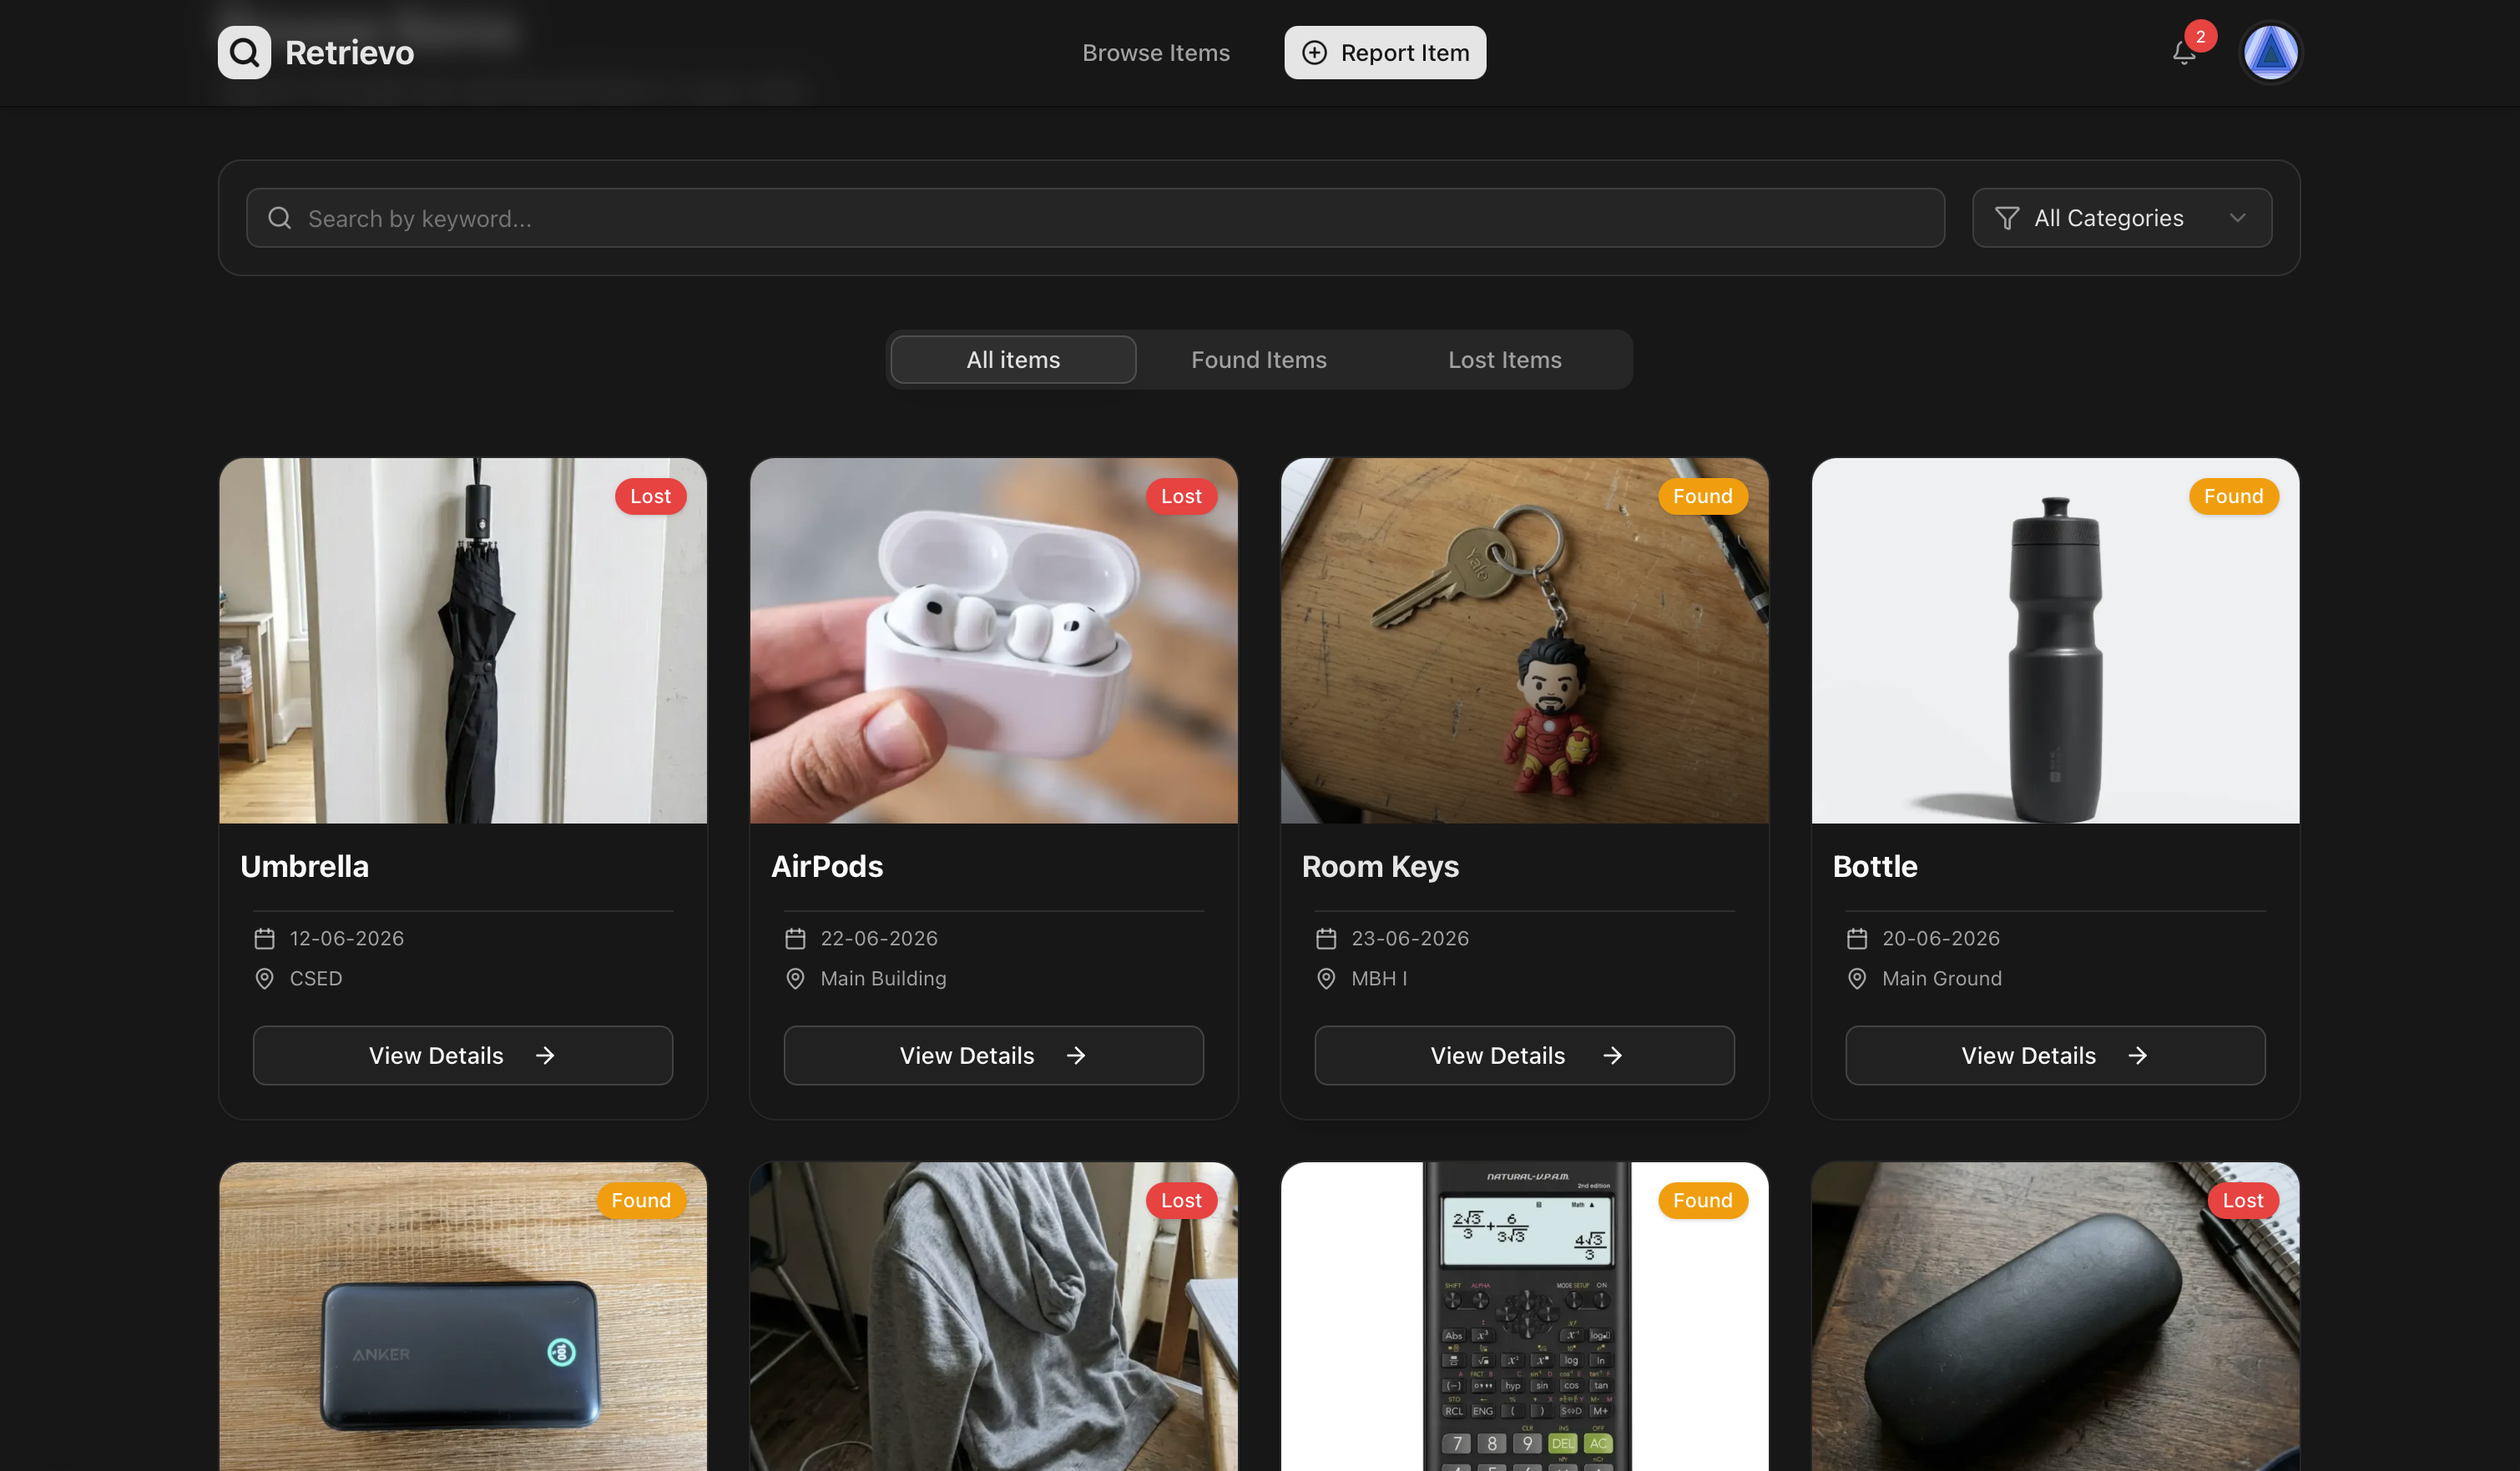
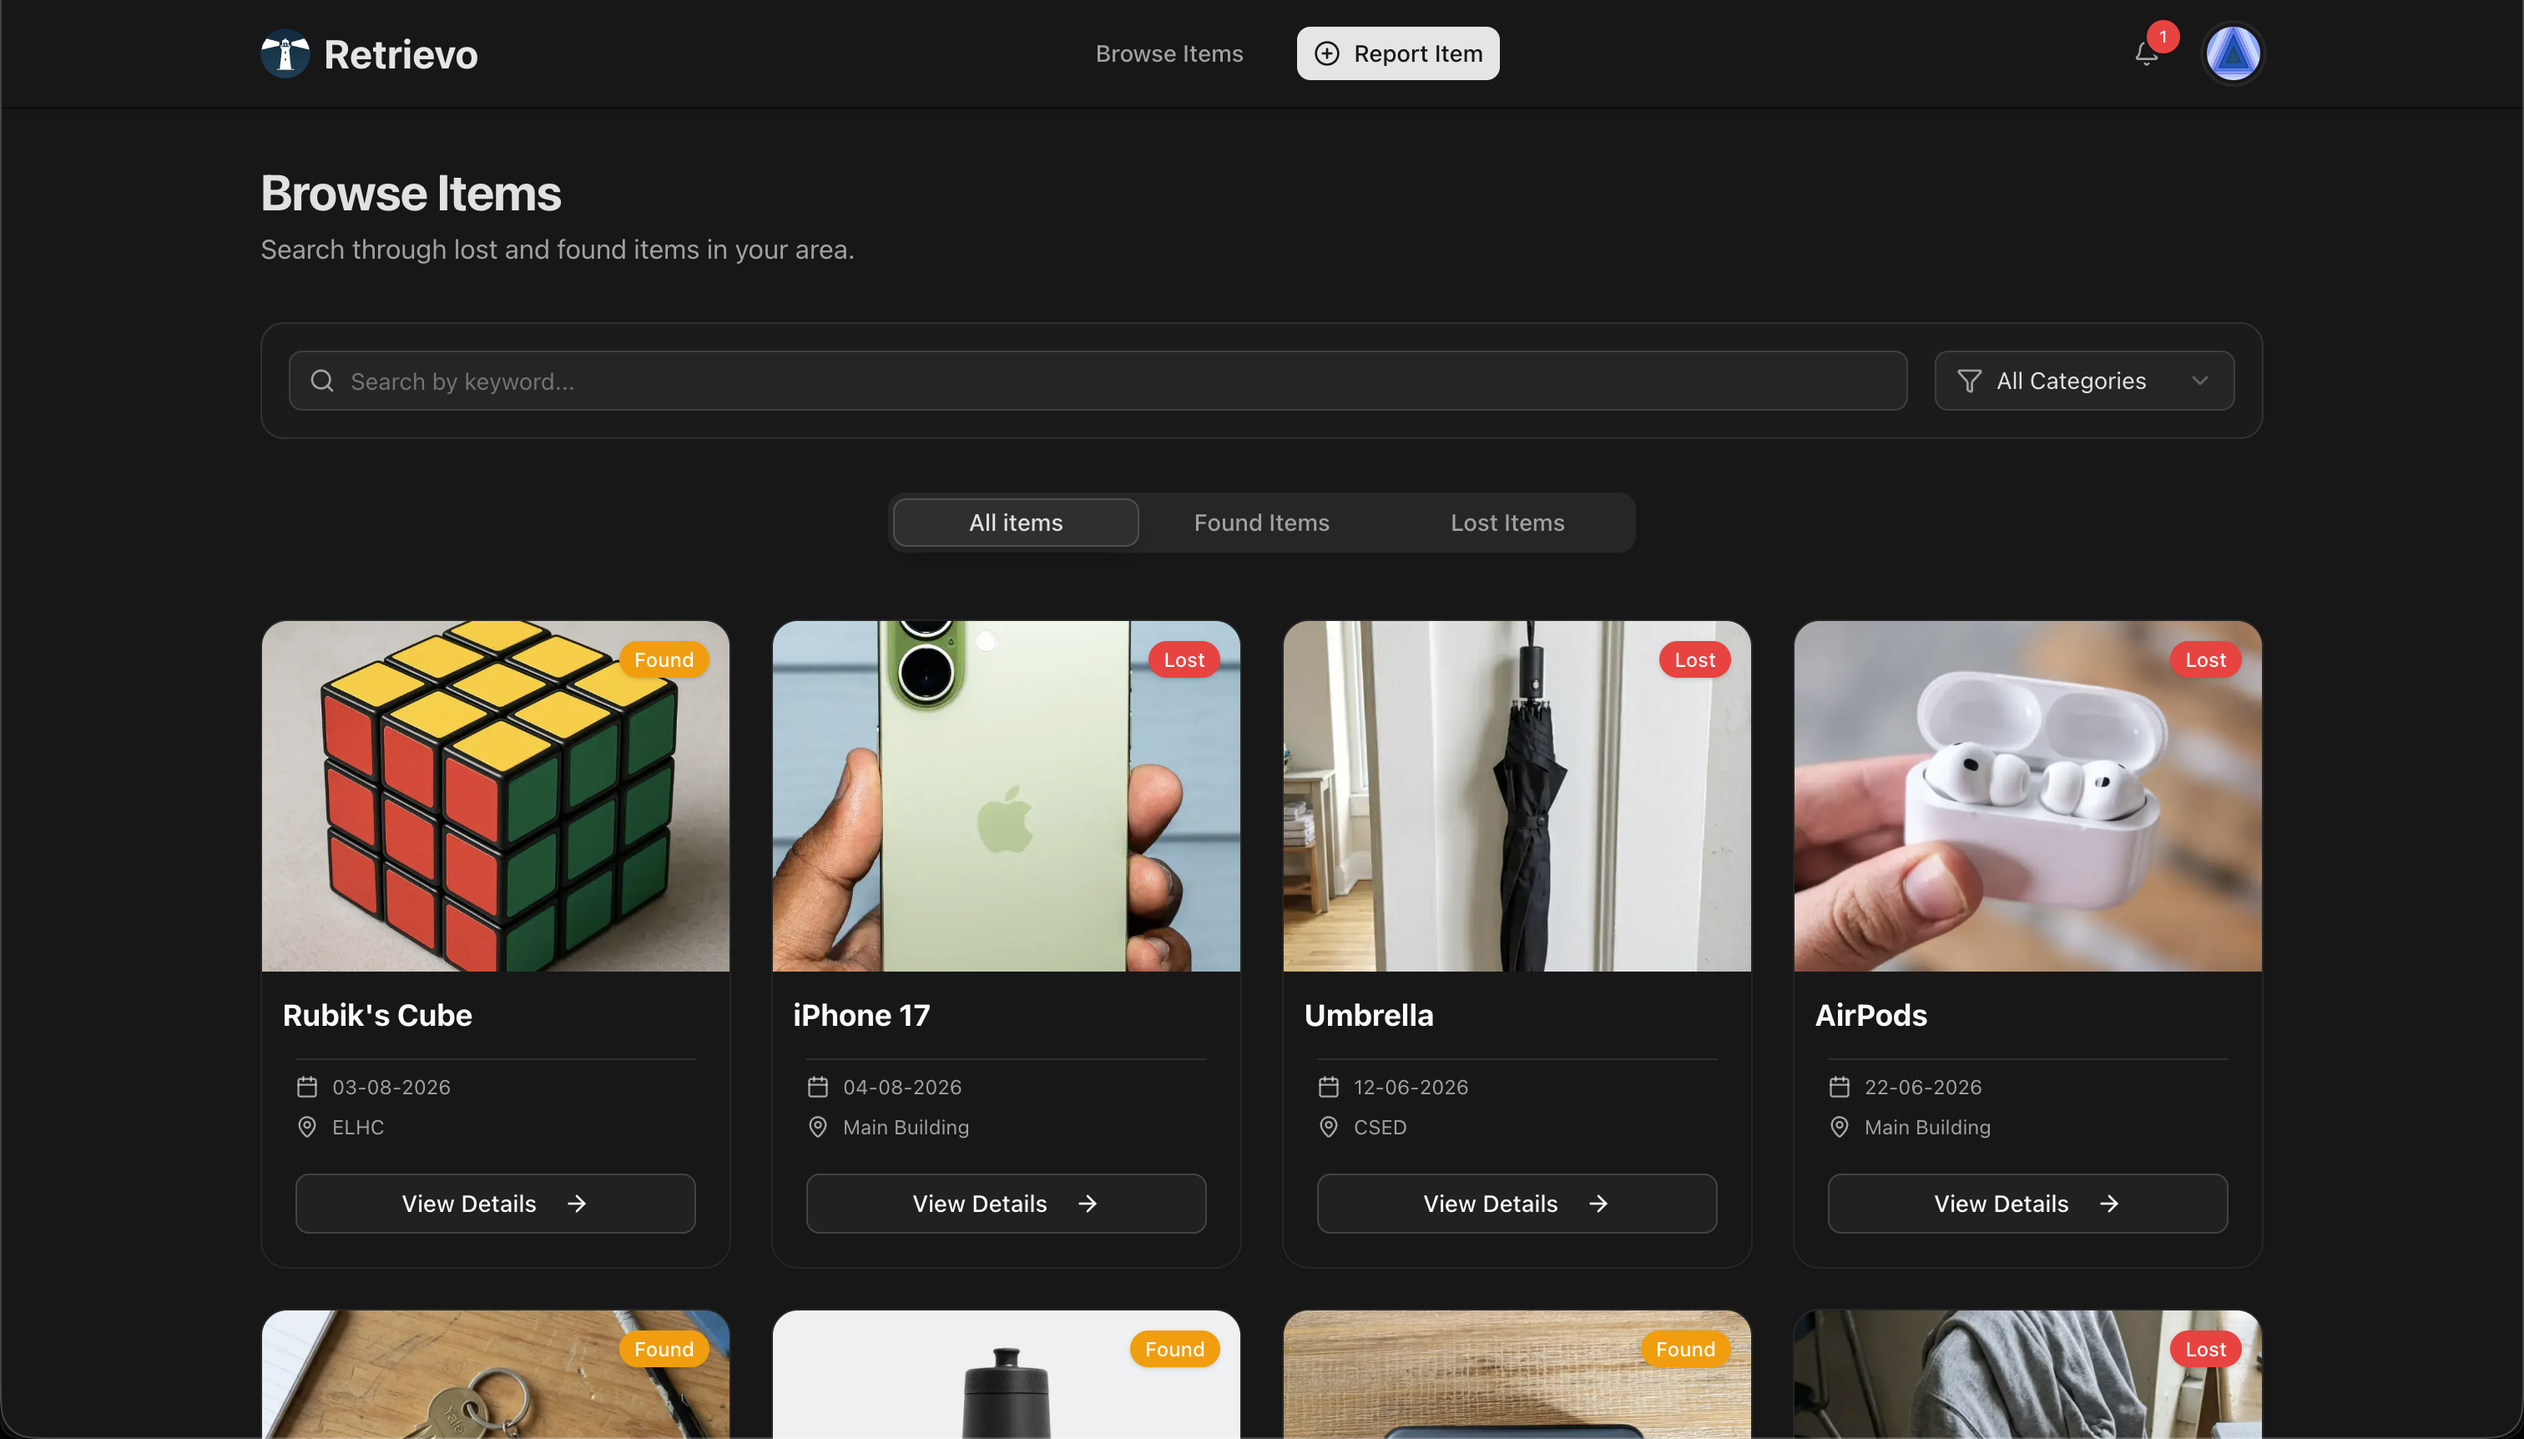
feat: enhance hero section layout
- and update FAQ answers for clarity
- update assets with new overall design

diff --git a/app/page.tsx b/app/page.tsx
@@ -21,13 +21,13 @@ export default function Home() {
       <div className="flex flex-col">
 
         {/* Hero Section */}
-        <section className="relative flex flex-col items-center justify-start h-[calc(100svh-4rem)]  px-4 text-center overflow-hidden">
-          <div className="w-full max-w-4xl relative z-10 md:animate-in fade-in slide-in-from-bottom-4 duration-500 flex flex-col items-center pt-[76px] md:pt-25 pb-[calc(25dvh)] md:pb-30">
+        <section className="relative flex flex-col items-center justify-center min-h-[min(calc(100svh-4rem),56rem)] px-4 py-10 md:py-0 text-center overflow-hidden">
+          <div className="w-full max-w-4xl relative z-10 md:animate-in fade-in slide-in-from-bottom-4 duration-500 flex flex-col items-center pb-16 md:pb-20">
 
             <h1 className="text-4xl md:text-7xl font-bold tracking-tight text-foreground leading-tight">
 
               {/* First line */}
-              <div className="flex justify-center items-center gap-2 md:gap-3 flex-wrap">
+              <div className="flex justify-center items-center gap-2 md:gap-3 flex-wrap whitespace-nowrap">
                 <span className="animate-[fadeIn_0.6s_ease-out_forwards] opacity-0">
                   Lost something
                 </span>
@@ -49,7 +49,7 @@ export default function Home() {
               through smart matching and community-powered reports.
             </p>
 
-            <div className="flex flex-col w-4/5 md:w-full justify-center md:flex-row gap-6 md:gap-5 mt-20 md:mt-10 animate-[fadeIn_0.6s_ease-out_0.8s_forwards] opacity-0">
+            <div className="flex flex-col w-full max-w-sm md:max-w-none justify-center md:flex-row gap-3 md:gap-5 mt-10 md:mt-12 animate-[fadeIn_0.6s_ease-out_0.8s_forwards] opacity-0">
               <Button asChild variant="outline"
               className="h-12 px-8 md:h-14 md:px-8 text-base md:text-lg gap-2 bg-popover/40 backdrop-blur-sm border-border/50 shadow-sm hover:bg-accent hover:text-foreground transition-all rounded-xl w-full md:w-auto"
             >
@@ -66,15 +66,15 @@ export default function Home() {
               </Button>
               
             </div>
-          <div className="absolute bottom-0 left-1/2 -translate-x-1/2 md:hidden">
-              <div className='flex flex-col items-center gap-0'>
-              <ChevronUp className="h-8 w-8 text-muted-foreground opacity-50 animate-bounce" />
-              </div>
-            </div> 
           </div>
 
           {/* Glow element */}
           <Glow />
+
+          {/* Scroll hint for mobile */}
+          <div className="absolute bottom-4 left-1/2 -translate-x-1/2 md:hidden">
+            <ChevronUp className="h-8 w-8 text-muted-foreground opacity-50 animate-bounce" />
+          </div>
 
           {/* Soft fade: blends hero glow into Features below */}
           {/* <div className="absolute bottom-0 left-0 right-0 h-16 bg-gradient-to-b from-transparent via-background/10 to-background pointer-events-none z-10" /> */}

diff --git a/components/landing-page.tsx b/components/landing-page.tsx
@@ -118,23 +118,27 @@ export function FeaturesSection() {
 const faqsData = [
     {
         question: "Is Retrievo free to use?",
-        answer: "Yes. Retrievo is completely free for both reporting lost items and helping others recover theirs."
+        answer: "Yes. Retrievo is completely free - for reporting lost or found items, searching, and helping items find their way back to their owners."
     },
     {
         question: "How do I report a lost item?",
-        answer: "Click on “I Lost Something”, add a description, upload photos, and specify where you lost the item. The community can then help match it with found reports."
+        answer: "Go to Report Item, add a clear title and description, then pick the category, location, and date, and upload a photo. You can also choose who sees it (everyone, boys only, or girls only) - the more detail you share, the easier it is to get a good match."
     },
     {
         question: "How does matching work?",
-        answer: "Retrievo compares item category, location, date, and descriptions to help connect lost reports with found items."
+        answer: "Retrievo compares category, location, date, and descriptions to surface reports that are likely related. When someone files a claim or initiates a return, you get a notification - proceed only if it truly matches your item."
     },
     {
-        question: "What should I do if I found something valuable?",
-        answer: "Create a found-item report with enough detail for identification, but avoid sharing highly sensitive information publicly."
+        question: "What should I do if I find something valuable?",
+        answer: "Create a found report with enough detail (category, location, date, and a photo) for the owner to recognise the item - but avoid sharing sensitive or identifying information publicly. Let the owner describe the item themselves before handing it over."
+    },
+    {
+        question: "How do I prove an item is mine?",
+        answer: "When you spot an item that looks like yours, submit a claim with a description. If you've already reported it on Retrievo as lost, link that item to your claim as well. The finder will review your claim and approve it if your description matches, so you can then arrange to get it back."
     },
     {
         question: "Can I browse reports without signing in?",
-        answer: "Yes. You can browse public reports freely. Signing in is only required when creating or managing reports."
+        answer: "Yes - public reports are open to browse without an account. Signing in is only required to post items, submit or approve claims, and manage or flag reports."
     }
 ];
 

diff --git a/lib/hooks/use-item-editable.ts b/lib/hooks/use-item-editable.ts
@@ -285,7 +285,7 @@ export function useItemEditable({ item, reporter, resolution_status, session }: 
             const res = await flagItem(item.id, reason);
 
             if (res.ok) {
-                toast.success("Item flagged successfully");
+                toast.success("Report submitted. We'll review it shortly.");
             } else {
                 if (res.status === 409) {
                     toast.error("You have already flagged this item");

diff --git a/next.config.ts b/next.config.ts
@@ -2,6 +2,7 @@ import type { NextConfig } from "next";
 
 const nextConfig: NextConfig = {
   output: "standalone",
+  devIndicators: false,
   images: {
     remotePatterns: [
       {
